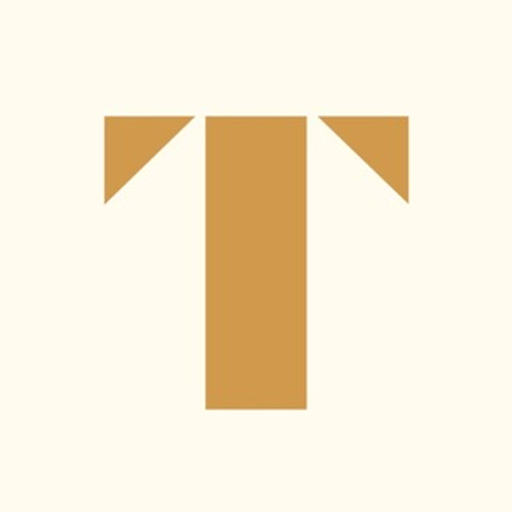
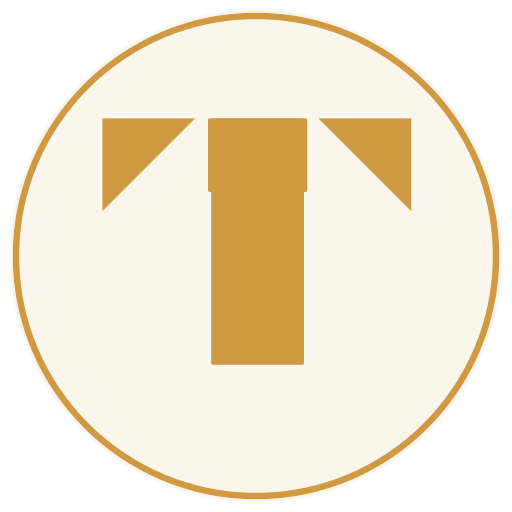
fix: preserve round Tretyakovka raster medallions

diff --git a/docs/reports/incidents/INC-2026-04-15-gate-location-and-linked-facts-drift.md b/docs/reports/incidents/INC-2026-04-15-gate-location-and-linked-facts-drift.md
@@ -113,3 +113,15 @@ the existing curated name/address identity; it cannot protect a wrong known
 name with another venue's address. The original Ecodvor OCR control and an
 added false `raw_excerpt` control retain source-owned grounding. This does not
 establish the missing historical extraction answer or repair wrong primary data.
+
+### 2026-11-28: Tretyakovka shared raster fallback shape
+
+Actual ordinary VK post16440 (event11582) showed two Tretyakovka medallions on
+opaque cream squares. Both shared 512px PNG/WebP had alpha255 in every pixel,
+while the canonical SVG already had a circular field and transparent corners.
+Regenerated only those raster fallbacks from that SVG, preserving the shared
+identity, gold ring, dimensions and renderer. No consumer mask, manifest change,
+state or provider call was added. Pixel check: corners alpha0, alpha range0–255,
+PNG and lossless WebP RGBA identical. Offline actual-frozen card preview and
+ordinary new-publication verification are recorded separately; old VK posts
+and comments remain untouched. Retained evidence: tretyakov-fallback-pixels-20261128.json.

diff --git a/CHANGELOG.md b/CHANGELOG.md
@@ -1,5 +1,7 @@
 ## [Unreleased]
 
+- Fixed: общие PNG/WebP медальона Третьяковки сохраняют круглый фон и прозрачные углы канонического SVG; новые VK/TG карточки больше не получают кремовый квадрат.
+
 - Fixed: Telegram import сохраняет подтверждённый адрес с дробным номером дома и не заменяет корректную извлечённую площадку соседней; конфликт известного имени и адреса по-прежнему исправляется по исходному сообщению и OCR.
 
 - Fixed: подбор видео больше не присваивает событию сырые фотографии общего поста в обход назначения афиш; недостающая галерея обрабатывается существующим media worker с сохранением срока повтора.

diff --git a/docs/features/static-site-pages/event-token-medallions.md b/docs/features/static-site-pages/event-token-medallions.md
@@ -608,3 +608,11 @@ This source-channel badge is a **static event-detail-page surface only**. Source
 and aggregator identities are not event attributes and must never be included
 in Telegram `@kldevents` graphical-medallion strips. Telegram may still show
 source-grounded organizer, venue, festival, program and Pushkin-card marks.
+
+### Tretyakovka raster fallback parity (2026-11-28)
+
+The shared `tretyakovka-kaliningrad.png` and lossless WebP are 512px transparent
+raster exports of the canonical same-stem SVG. Preserve its circular cream field,
+gold ring and T mark; never flatten the export onto an opaque square. VK/TG use
+the PNG fallback while the site uses the SVG. Changes apply to newly rendered
+cards; already published VK posts/comments are not rewritten.
